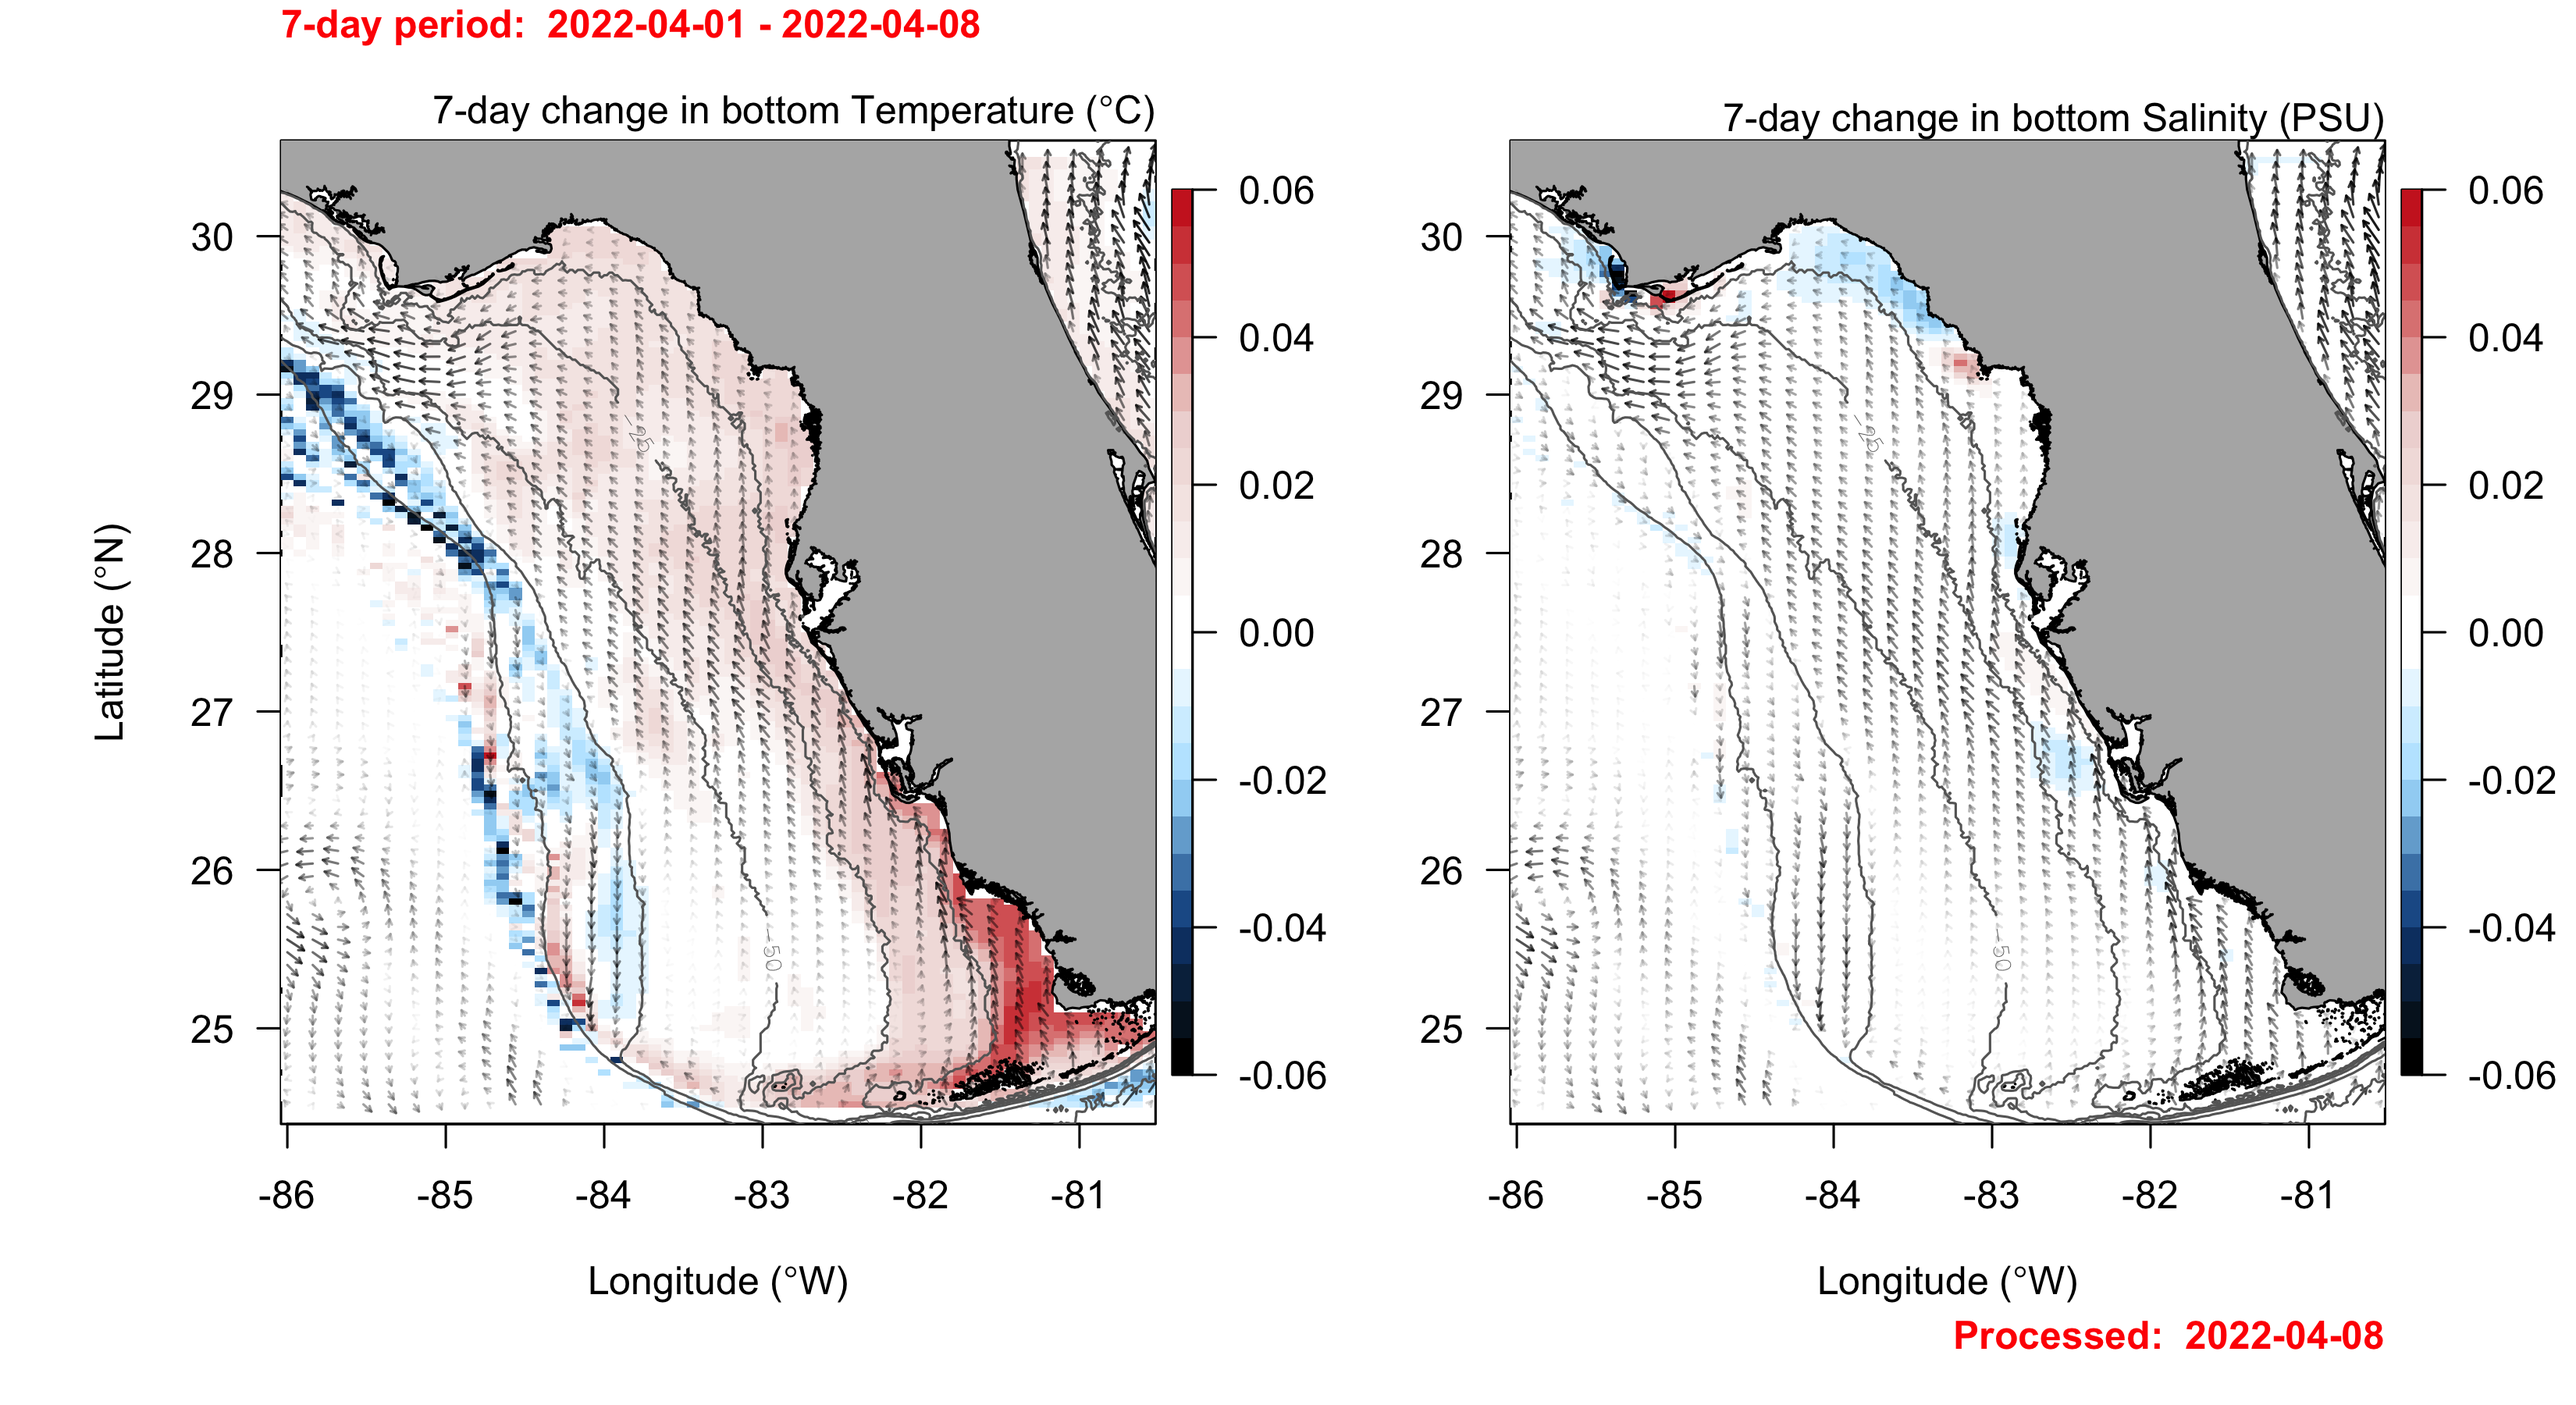
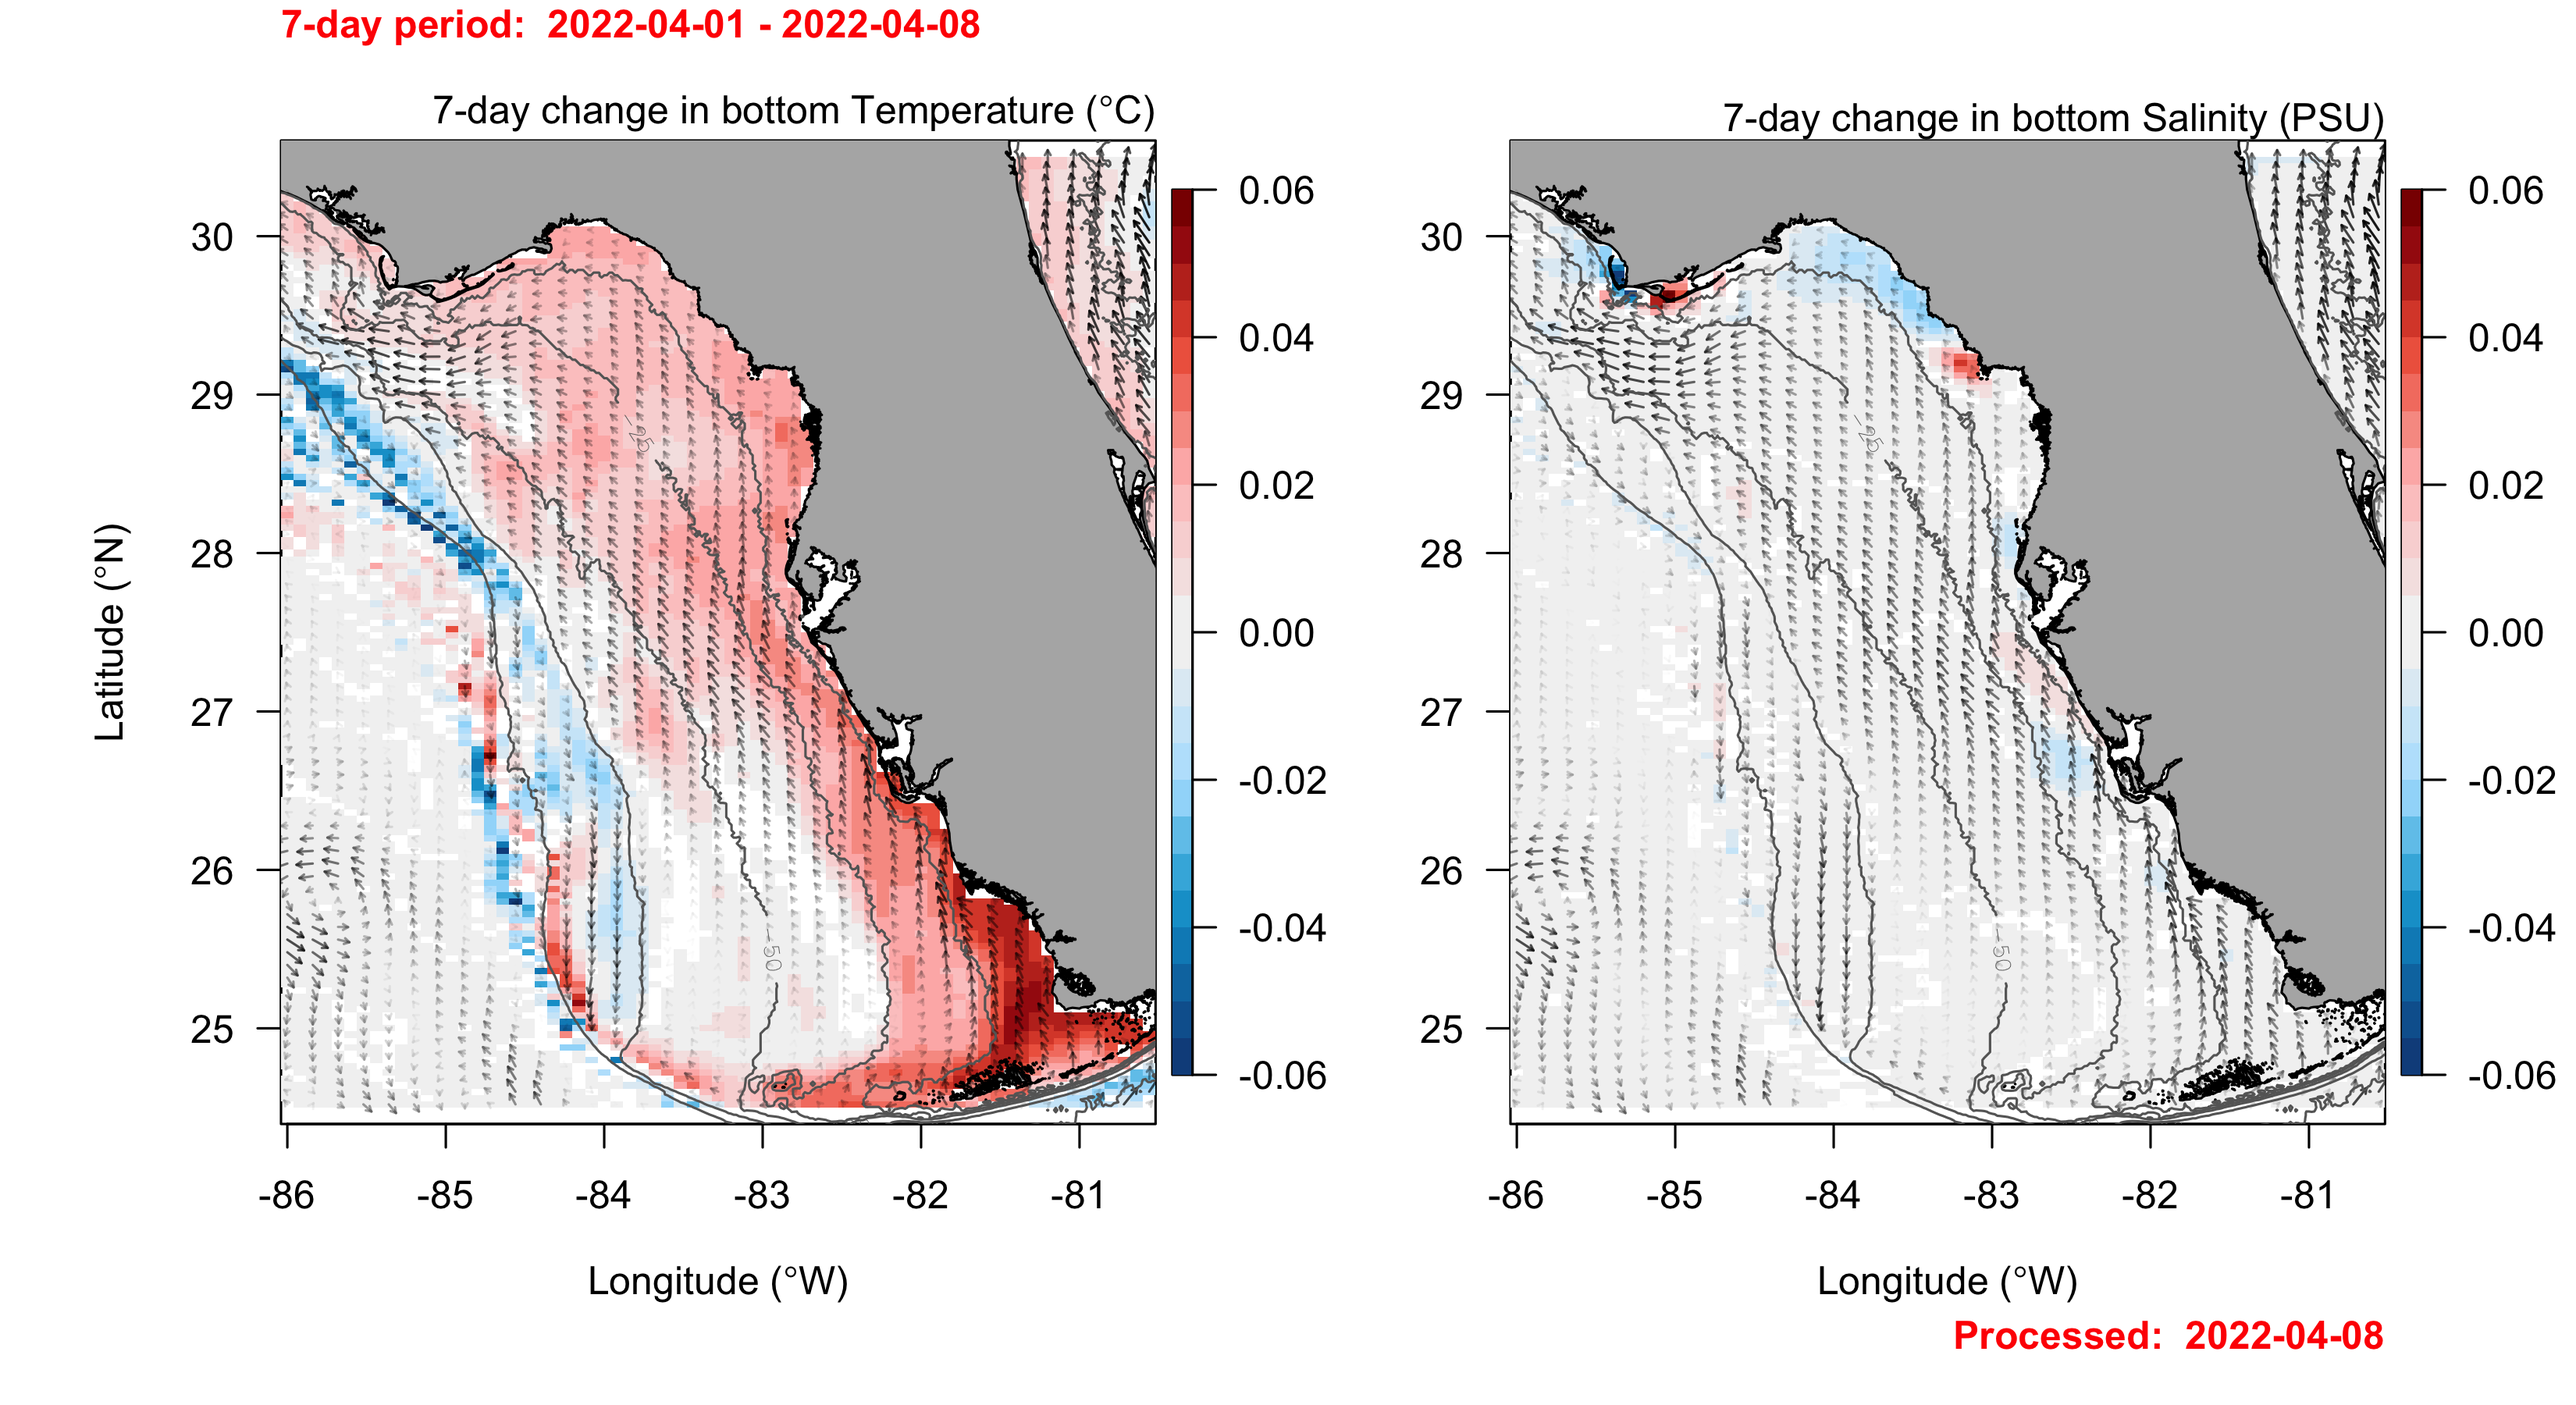
update colors

diff --git a/README.md b/README.md
@@ -4,7 +4,7 @@ The bottom temperature, salinity, and currents were extracted from the global [H
 
 The current conditions are the mean bottom temperature and salinity of the past 48 hours. Overlaid arrows are the mean bottom currents during that same time period. Stratification is defined as surface values subtracted from the bottom values then divided by the water depth. This gives some indication of the strength of the thermocline and halocline and resistance to water column mixing due to things like wind and waves.
 
-The past 7-day and next 7-day forecast trends are linear slopes of those respective time periods. Any slopes that have a p-values > 0.01 are white. Overlaid arrows on the trends are the mean bottom currents during that same time period.
+The past 7-day and next 7-day forecast trends are linear slopes of those respective time periods. Any slopes that have a p-values > 0.05 are white. Overlaid arrows on the trends are the mean bottom currents during that same time period.
 
 ---
 
